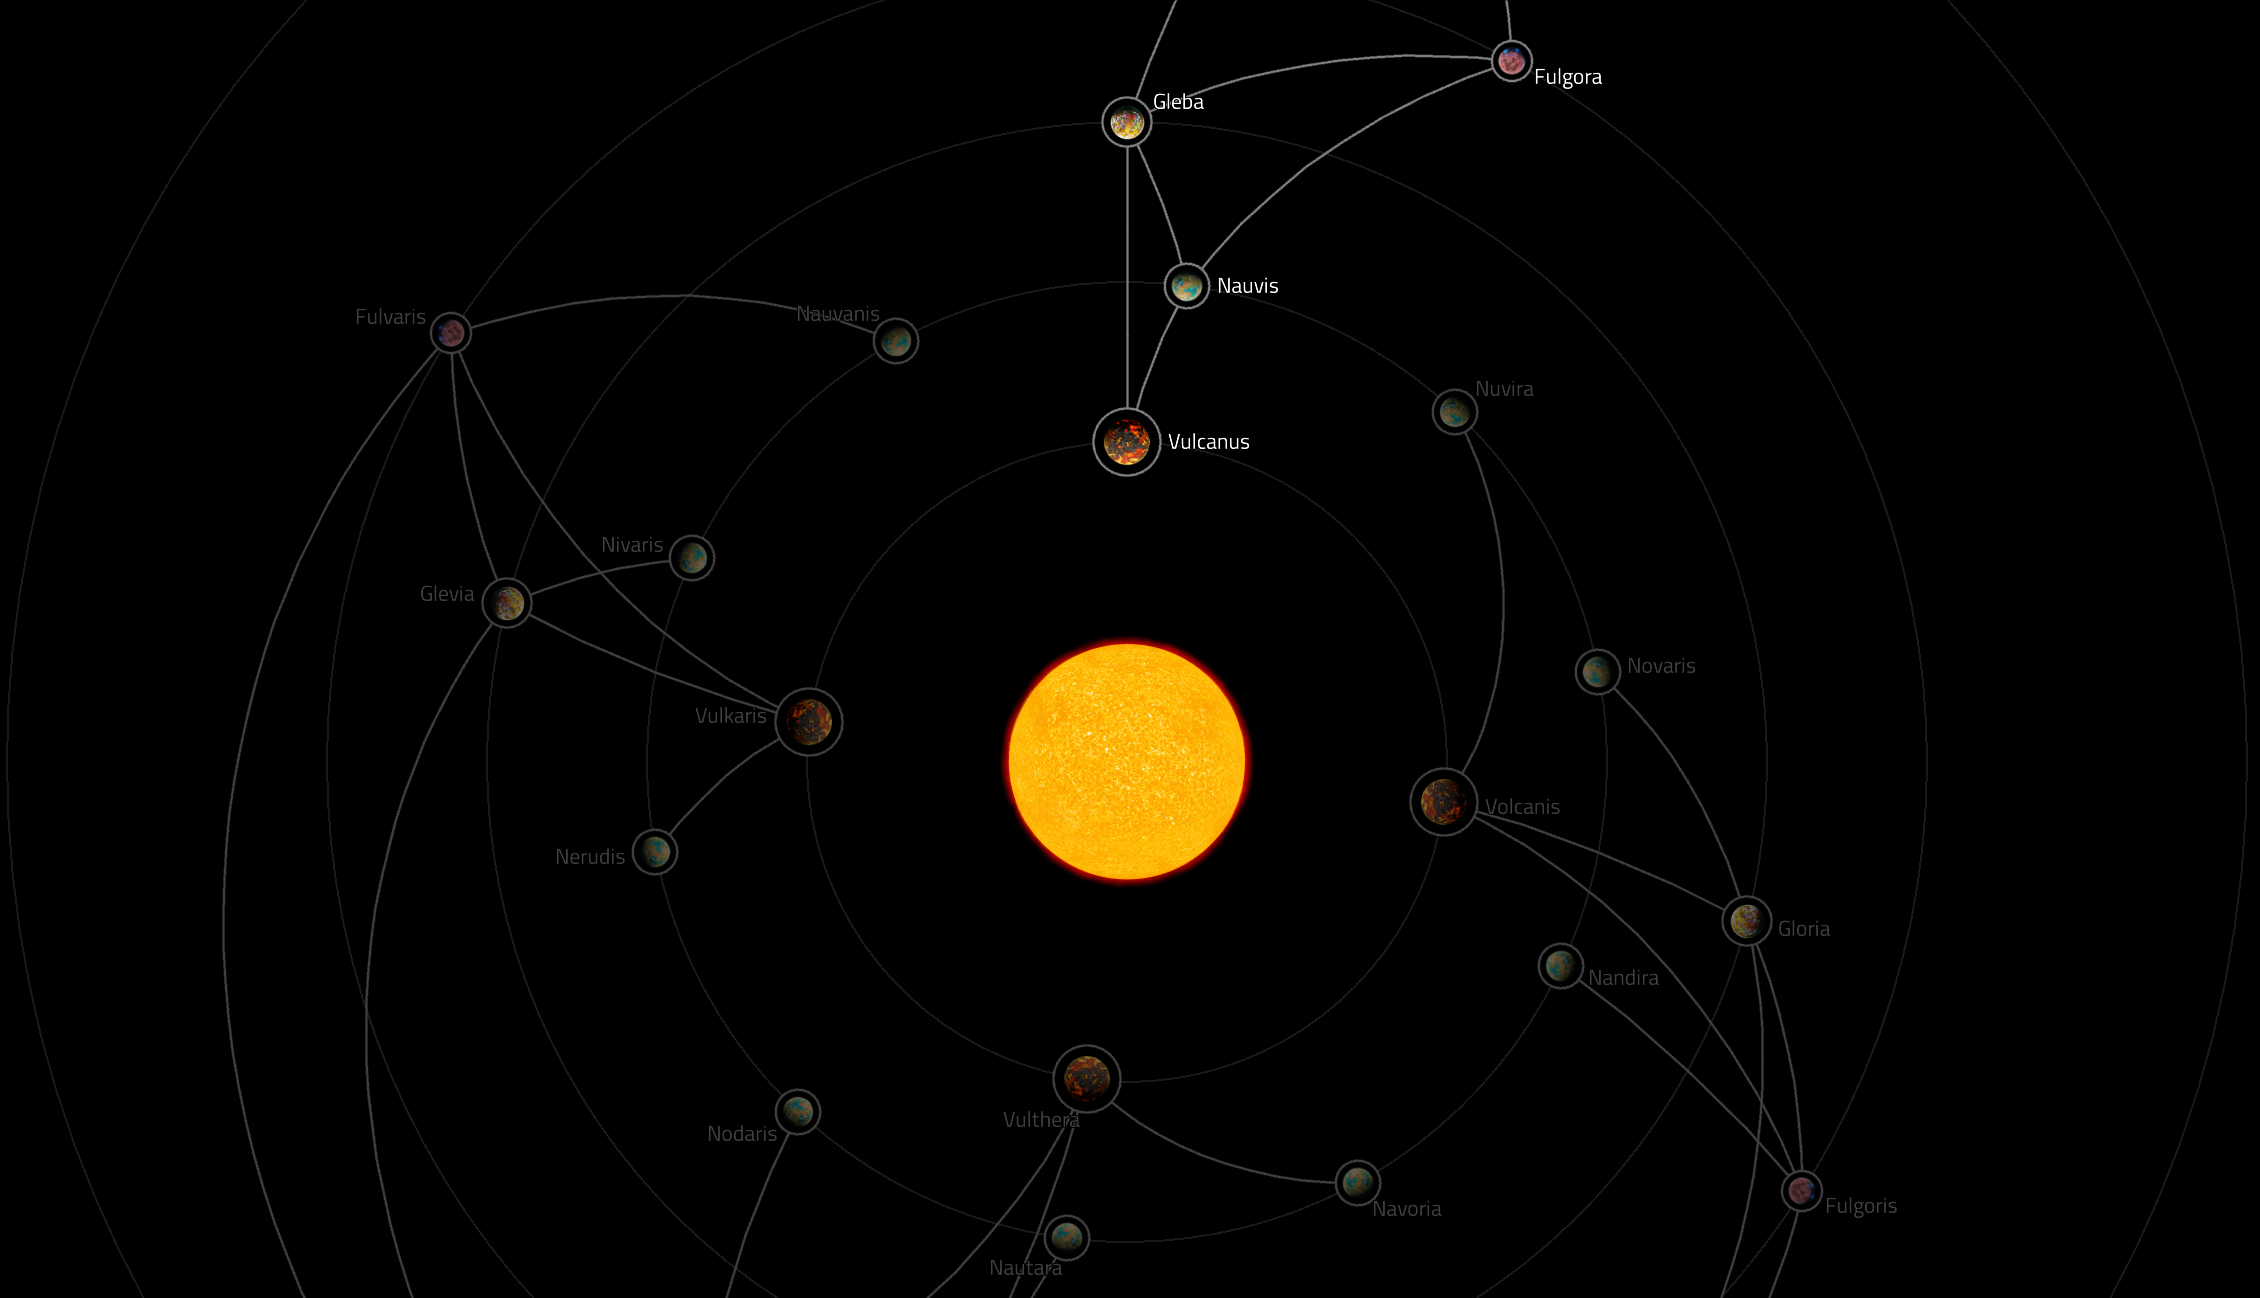
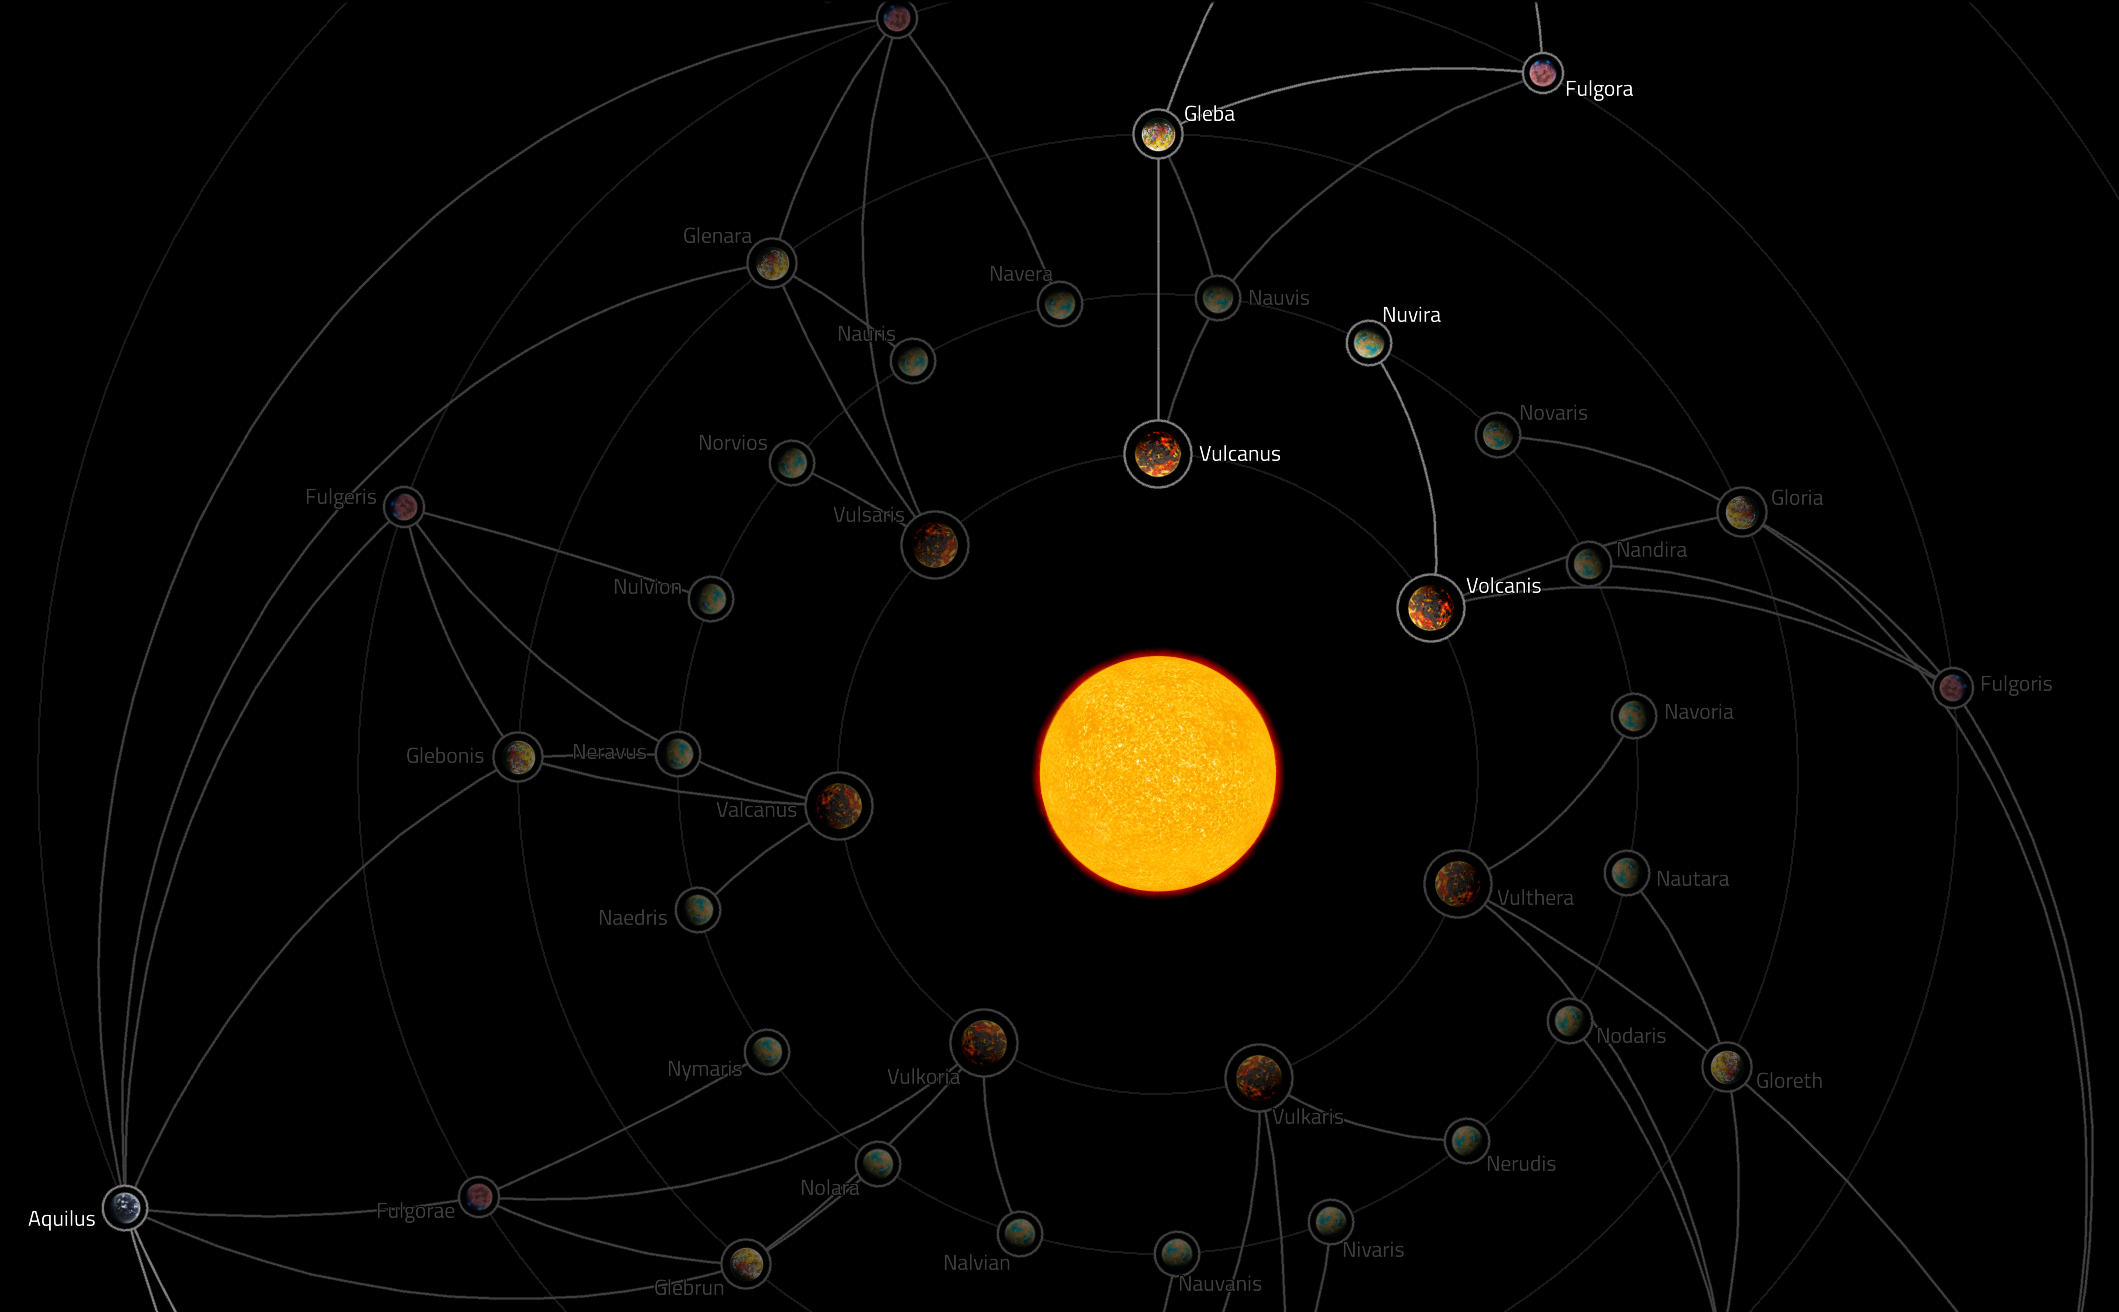
Update readme

diff --git a/README.md b/README.md
@@ -4,6 +4,27 @@
 
 Welcome to the Space Age DLC, a revolutionary mod designed to transform your multiplayer gaming experience! This mod focuses on fostering teamwork and cooperation through an innovative team-based format, allowing players to embark on an epic journey across the cosmos. Enjoy the thrill of exploration and resource management in a balanced early game environment where collaboration is key, and chaos is left behind.
 
+---
+
+## Universe preview
+Custom universe size! Universe will be build around *Calidus* to form a complex universe. You can add up to 3 systems to yor universe, each system is composed of 9 Nauvis, 3 Vulcanus, 3 Gleba, 3 Fulgora, 1 Aquilo.
+Choose among 3 options:
+
+- **Small** - 19 planets (1 system)
+- **Medium** - 38 planets (2 systems)
+- **Large** - 57 planets (3 systems)
+
+> Small
+![small_universe](https://github.com/RedRafe/team-starts/blob/main/archive/img_universe_19.png?raw=true)
+
+> Medium
+![medium_universe](https://github.com/RedRafe/team-starts/blob/main/archive/img_universe_38.png?raw=true)
+
+> Large
+![large_universe](https://github.com/RedRafe/team-starts/blob/main/archive/img_universe_57.png?raw=true)
+
+---
+
 ## Features
 
 ### Team Organization
@@ -34,11 +55,18 @@ Welcome to the Space Age DLC, a revolutionary mod designed to transform your mul
 
 1. **Installation**: To install the Space Age DLC, follow the instructions provided in the installation section of the mod portal. Ensure you have the base game updated to the latest version for the best experience.
 
-2. **Setting Up a Game**: Once installed, create or join a multiplayer game and select the Space Age DLC option. Allocate players into teams and start your journey!
+2. **Setting Up a Game**: Once installed, select the universe size of your choice (Small - Medium - Large), create or join a multiplayer game and select the Space Age DLC option. Allocate players into teams and start your journey!
 
 3. **Form Teams**: When starting a game, make sure to divide players into small teams for optimal participation. Use the mod's team organization features to facilitate communication and collaboration.
 
 4. **Join the Community**: Engage with other players through the mod’s community channels. Share strategies, tips, and experiences to enhance everyone’s gaming adventure within the Space Age.
+
+## User interface
+
+Here's a preview of the **Team Manager** window in-game, where you can join another team:
+![ui](https://github.com/RedRafe/team-starts/blob/main/archive/img_gui.png?raw=true)
+
+---
 
 ## Join the Adventure
 
